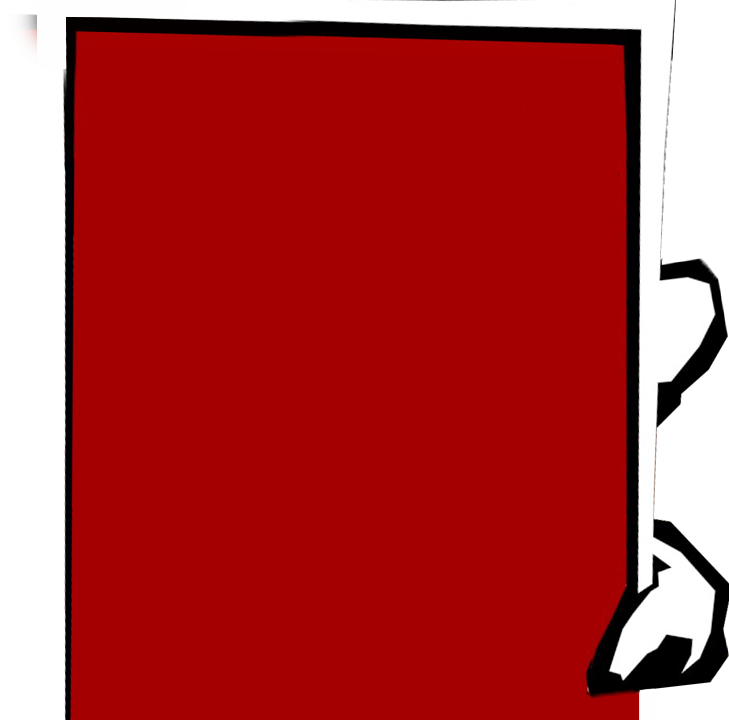
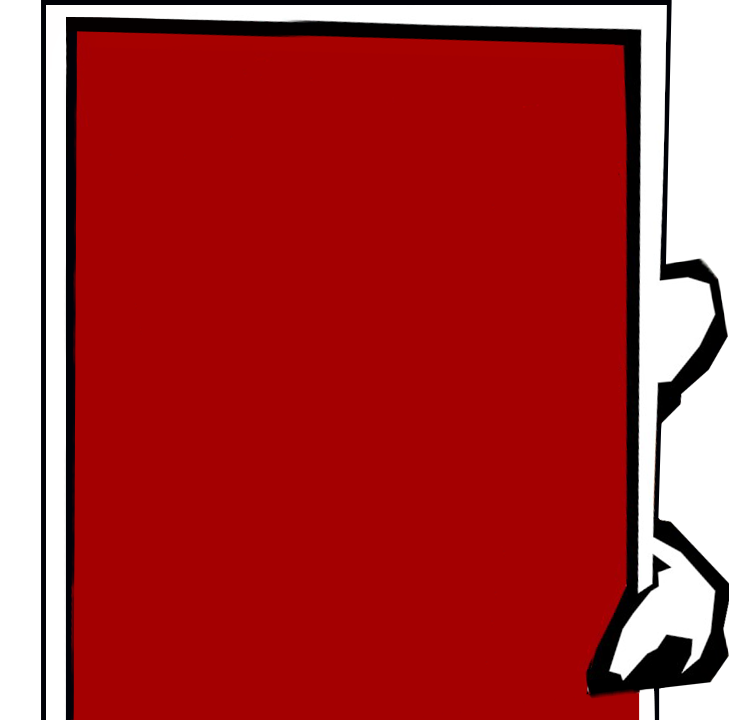
Correcciones de assets y posicionamientos

Changed region(s): [[0.0302, 0.0, 0.9355, 1.0], [0.8752, 0.5806, 0.9053, 0.7333], [0.8752, 0.9472, 0.9053, 1.0]]

diff --git a/src/components/frases/persona.css b/src/components/frases/persona.css
@@ -48,6 +48,7 @@ html{
     background-repeat: no-repeat;
     background-size: 100% 100%;
     padding: 5%;
+    
 }
 
 .flipX {
@@ -61,8 +62,10 @@ html{
     list-style-type: none;
 }
 .titulo{
+    margin:auto;
     margin-top: 1em;
     margin-bottom: 1em;
+    width: 80%;
 }
 
 .mensajes{
@@ -75,7 +78,8 @@ html{
     scrollbar-width: none;  /* Firefox */
     display: flex;
     flex-direction: column-reverse;
-    width: 87%;
+    width: 100%;
+    margin-left: -8%;
 }
 
 .mensajes::-webkit-scrollbar {
@@ -117,6 +121,6 @@ html{
     .mensajes{
         margin-top: 1%;
         height: 95vh;
-        width: 80%;
+        margin-left: -5%;
     }
   }

diff --git a/src/components/frases/frasePersona.jsx b/src/components/frases/frasePersona.jsx
@@ -140,7 +140,7 @@ export function FrasePersona (props) {
 
         <polygon
           v-if='remote'
-          points='50,100 120,100 110,55 55,55'
+          points='50,70 114,70 110,53 55,54'
           style={{ fill: primaryColor() }}
           className={remote ? '' : 'flipX'}
         />
